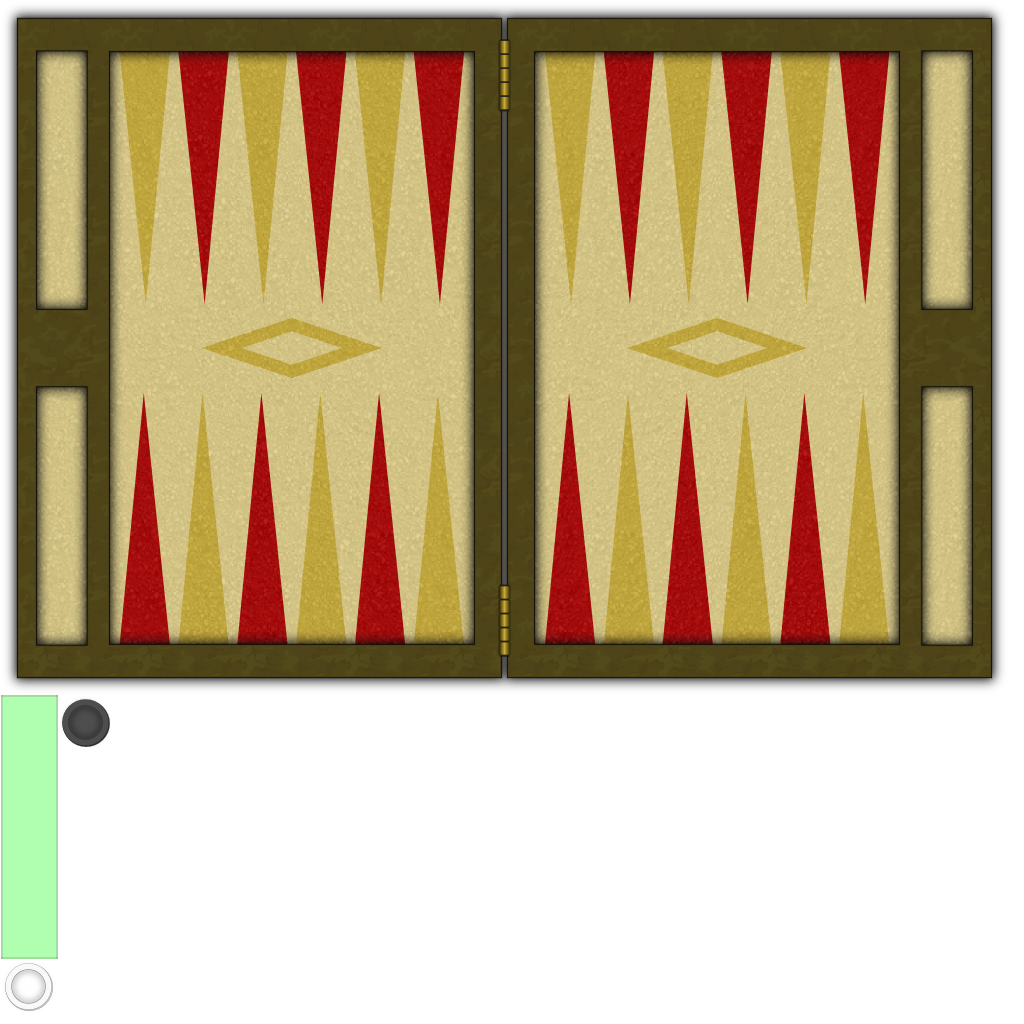
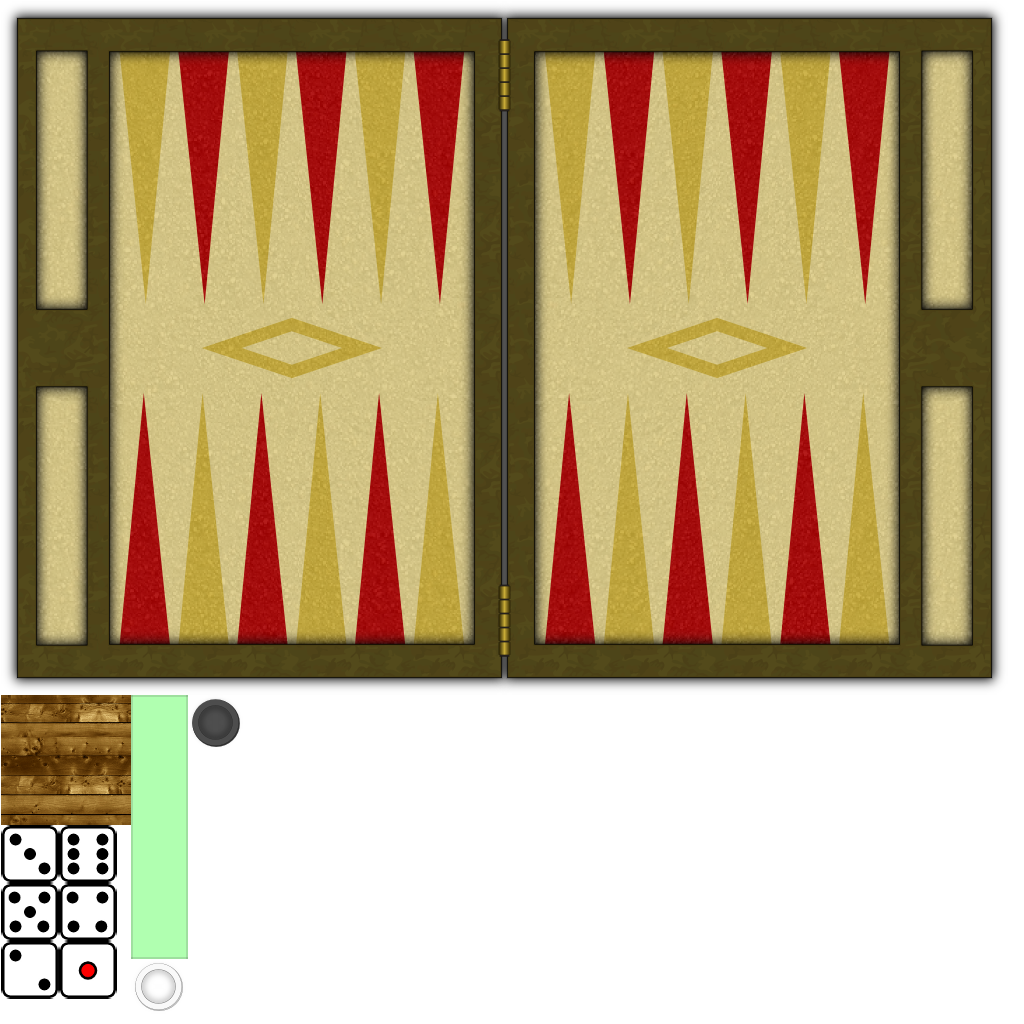
FEATURE: add dices actor and how dices logic

Changed region(s): [[0.0, 0.6562, 0.25, 1.0]]

diff --git a/GnuBackgammon/src/it/alcacoop/gnubackgammon/actors/Dices.java b/GnuBackgammon/src/it/alcacoop/gnubackgammon/actors/Dices.java
@@ -1,0 +1,77 @@
+package it.alcacoop.gnubackgammon.actors;
+
+
+import it.alcacoop.gnubackgammon.GnuBackgammon;
+import it.alcacoop.gnubackgammon.logic.MatchState;
+
+import com.badlogic.gdx.graphics.Texture.TextureFilter;
+import com.badlogic.gdx.graphics.g2d.TextureRegion;
+import com.badlogic.gdx.scenes.scene2d.Group;
+import com.badlogic.gdx.scenes.scene2d.ui.Image;
+
+public class Dices extends Group {
+
+  private Image d[][];
+  private float x, y;
+  private int last[];
+  
+  
+  public Dices(float _x, float _y) {
+    x = _x;
+    y = _y-28;
+    
+    d = new Image[4][6];
+    for (int i=0; i<4; i++) {
+    for (int j=0; j<6; j++) {
+      TextureRegion r = GnuBackgammon.atlas.findRegion("d"+(j+1));
+      r.getTexture().setFilter(TextureFilter.Linear, TextureFilter.Linear);
+      d[i][j] = new Image(r);
+      addActor(d[i][j]);
+      d[i][j].setVisible(false);
+    }
+    }
+  }
+  
+  public void hide() {
+    for (int i=0; i<4; i++) 
+      for (int j=0; j<6; j++) {
+        d[i][j].setVisible(false);
+        d[i][j].setColor(1,1,1,1f);
+      }
+  }
+
+  public void show(int d1, int d2) {
+    if (d1!=d2) {
+      last = new int[2];
+      last[0] = d1;
+      last[1] = d2;
+    } else {
+      last = new int[4];
+      for (int i=0; i<4; i++)
+        last[i] = d1;
+    }
+    _show(last);
+  }
+  
+  private void _show(int _d[]) {
+    hide();
+    float x = 0;
+    if (MatchState.fMove==0) x=this.x-60*(_d.length/2)+216;
+    else x=this.x-60*(_d.length/2)-210;
+    
+    for (int i=0; i< _d.length; i++) {
+      d[i][_d[i]-1].setX(x+60*i);
+      d[i][_d[i]-1].setY(y);
+      d[i][_d[i]-1].setVisible(true);
+    }
+  }
+
+  
+  public void disable(int n) {
+    for (int i=0;i<last.length; i++)
+      if (last[i]==n) { 
+        d[i][n-1].setColor(0.7f,0.7f,0.7f,0.4f);
+        return;
+      }
+  }
+}

diff --git a/GnuBackgammon/src/it/alcacoop/gnubackgammon/layers/Board.java b/GnuBackgammon/src/it/alcacoop/gnubackgammon/layers/Board.java
@@ -5,6 +5,7 @@ import java.util.Random;
 import it.alcacoop.gnubackgammon.GameScreen;
 import it.alcacoop.gnubackgammon.actors.BoardImage;
 import it.alcacoop.gnubackgammon.actors.Checker;
+import it.alcacoop.gnubackgammon.actors.Dices;
 import it.alcacoop.gnubackgammon.actors.Point;
 import it.alcacoop.gnubackgammon.logic.FSM.Events;
 import it.alcacoop.gnubackgammon.logic.MatchState;
@@ -28,6 +29,7 @@ public class Board extends Group {
   public Checker checkers[][];
   private Checker lastMoved = null;
   public Point points[];
+  private Dices dices;
 
   
   public Board() {
@@ -88,7 +90,9 @@ public class Board extends Group {
       addActor(checkers[0][i]);
       addActor(checkers[1][i]);
     }
-
+    
+    dices = new Dices(bimg.getX()+1005/2, bimg.getY()+692/2);
+    addActor(dices);
   }
 
 

diff --git a/GnuBackgammon/src/it/alcacoop/gnubackgammon/GameScreen.java b/GnuBackgammon/src/it/alcacoop/gnubackgammon/GameScreen.java
@@ -19,7 +19,17 @@ public class GameScreen implements Screen {
 
   public GameScreen(GnuBackgammon bg){
     
-    stage = new Stage(1280, 740, true);
+    //stage = new Stage(1280, 740, true);
+    stage = new Stage(1005, 692, true);
+    
+    /*
+    TextureRegion region = GnuBackgammon.atlas.findRegion("bg");
+    Image img = new Image(region);
+    img.setWidth(1005);
+    img.setHeight(692);
+    stage.addActor(img);
+    */
+    
     board = new Board();
     stage.addActor(board);
     fsm = new FSM(board);

diff --git a/GnuBackgammon-desktop/src/it/alcacoop/gnubackgammon/Main.java b/GnuBackgammon-desktop/src/it/alcacoop/gnubackgammon/Main.java
@@ -12,8 +12,8 @@ public class Main {
     LwjglApplicationConfiguration cfg = new LwjglApplicationConfiguration();
     cfg.title = "GnuBackgammon";
     cfg.useGL20 = false;
-    cfg.width = 640;
-    cfg.height = 370;
+    cfg.width = 502;
+    cfg.height = 346;
 
     new LwjglApplication(new GnuBackgammon(), cfg);
     
